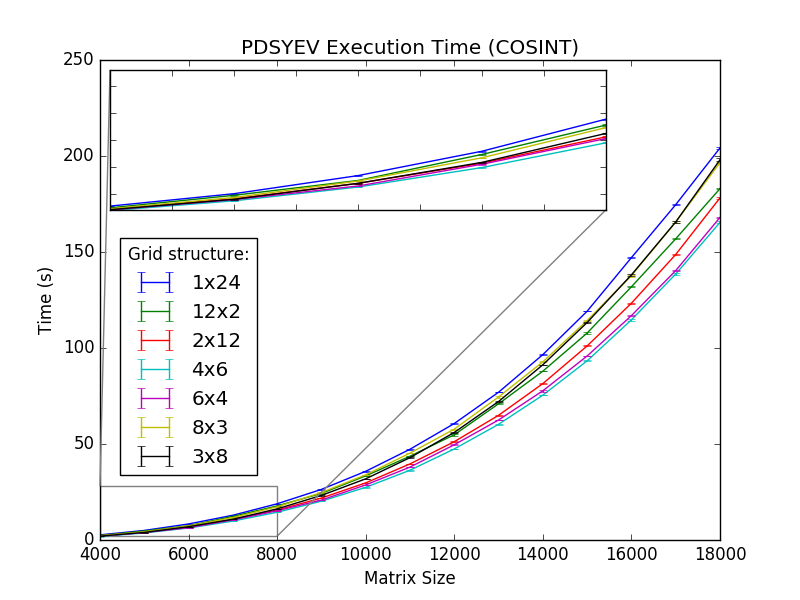
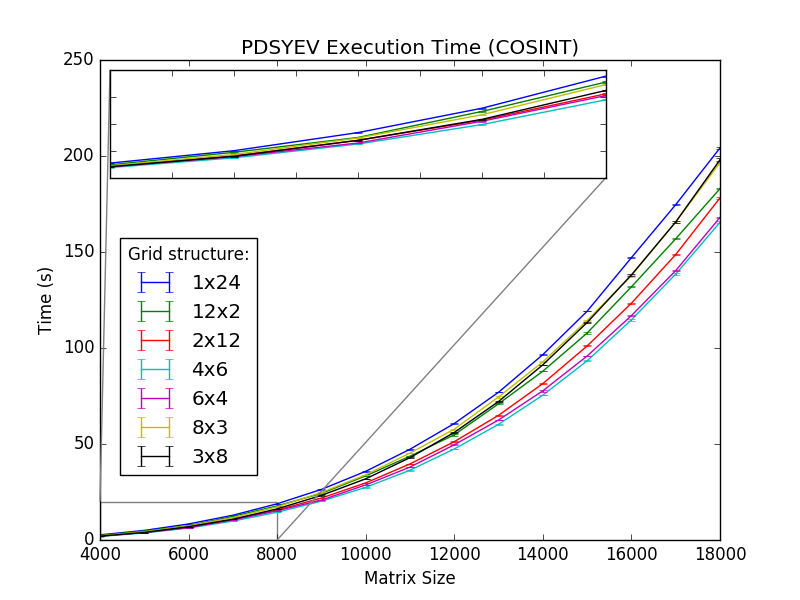
add some changes

diff --git a/D1-exercise/provided_code/cosint/plot.py b/D1-exercise/provided_code/cosint/plot.py
@@ -57,7 +57,7 @@ for namef in nfiles:
     
 # axis lim for the "zoom" plot
 axins.set_xlim(4000, 8000)
-axins.set_ylim(2, 28)
+axins.set_ylim(0, 20)
 plt.yticks(visible=False)
 plt.xticks(visible=False)
 mark_inset(ax, axins, loc1=2, loc2=4, fc="none", ec="0.5")

diff --git a/D1-exercise/provided_code/plot.py b/D1-exercise/provided_code/plot.py
@@ -57,7 +57,7 @@ for namef in nfiles:
 
 # axis lim for the "zoom" plot
 axins.set_xlim(4000, 8000)
-axins.set_ylim(2, 28)
+axins.set_ylim(0, 28)
 plt.yticks(visible=False)
 plt.xticks(visible=False)
 mark_inset(ax, axins, loc1=2, loc2=4, fc="none", ec="0.5")
